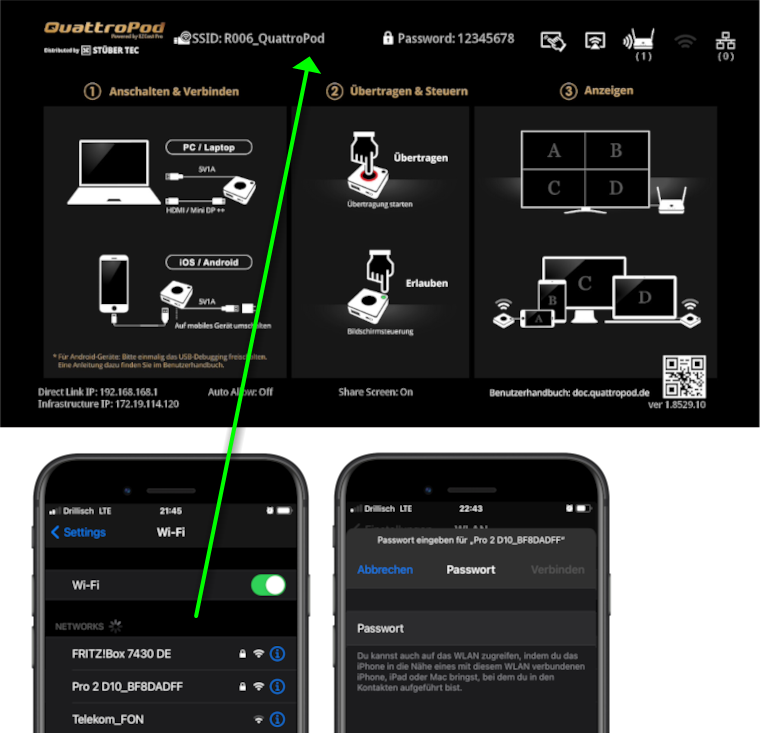
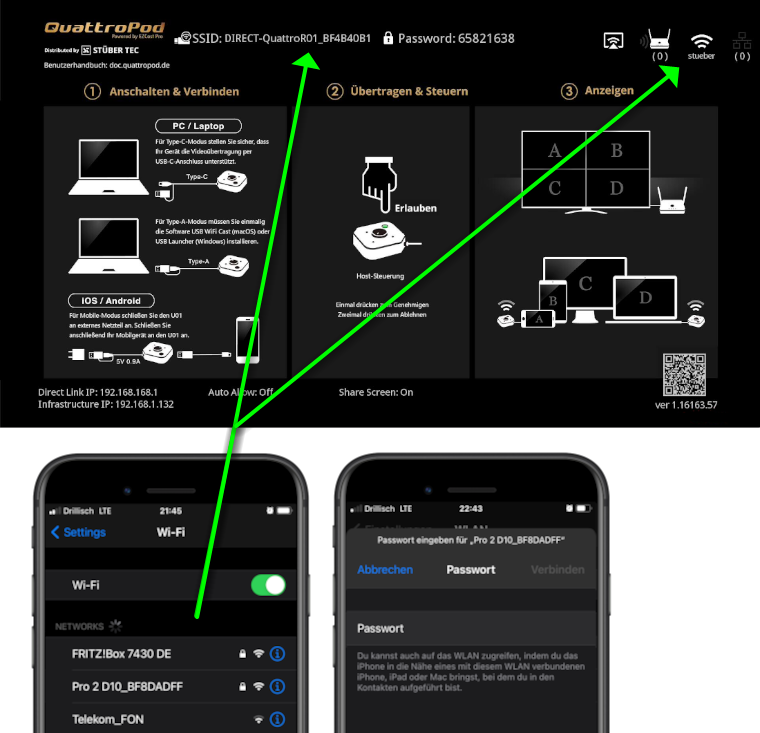
Improve QP settings guide

diff --git a/docs/lite/dynamicwallpaper.md b/docs/lite/dynamicwallpaper.md
@@ -104,11 +104,11 @@ Unsere Beispieldatei `wallpaper_file.json` zum steht Ihnen [hier](https://downlo
 
 ### Erweiterte Einstellungen öffnen
 
-* Verbinden Sie Ihr Endgerät mit der SSID des QuattroPods. Die Zugangsdaten werden oben auf dem Bildschirm angezeigt:
+* Verbinden Sie Ihr Endgerät mit dem QuattroPod, entweder mit der SSID des QuattroPods oder mit derselben WLAN- bzw. LAN-Infrastruktur, mit welcher der QuattroPod verbunden ist:
 
 ![](/assets/img/quattropod.lite.ssid.connect.png)
 
-* In die Adressleiste eines Webbrowsers geben Sie die `Direct Link IP` des QuattroPods ein. Die Einstellungsoberfläche des QuattroPods erscheint:
+* In die Adressleiste eines Webbrowsers geben Sie die IP-Adresse des QuattroPods ein. Wenn Sie mit der SSID des QuattroPods verbunden sind, geben Sie die `Direct Link IP` ein. Wenn Sie mit Ihrer WLAN- bzw. LAN-Infrastruktur verbunden sind, geben Sie die `Infrastructure IP` ein. Die Einstellungsoberfläche des QuattroPods erscheint:
 
 ![](/assets/img/quattropod_lite_directIP.connect.png)
 

diff --git a/docs/lite/internet.md b/docs/lite/internet.md
@@ -16,11 +16,11 @@ Für den QuattroPod wird eine Internet-Verbindung in folgenden Fällen benötigt
 
 ### Erweiterte Einstellungen öffnen
 
-* Verbinden Sie Ihr Endgerät mit der SSID des QuattroPods. Die Zugangsdaten werden oben auf dem Bildschirm angezeigt:
+* Verbinden Sie Ihr Endgerät mit dem QuattroPod, entweder mit der SSID des QuattroPods oder mit derselben WLAN- bzw. LAN-Infrastruktur, mit welcher der QuattroPod verbunden ist:
 
 ![](/assets/img/quattropod.lite.ssid.connect.png)
 
-* In die Adressleiste eines Webbrowsers geben Sie die `Direct Link IP` des QuattroPods ein. Die Einstellungsoberfläche des QuattroPods erscheint:
+* In die Adressleiste eines Webbrowsers geben Sie die IP-Adresse des QuattroPods ein. Wenn Sie mit der SSID des QuattroPods verbunden sind, geben Sie die `Direct Link IP` ein. Wenn Sie mit Ihrer WLAN- bzw. LAN-Infrastruktur verbunden sind, geben Sie die `Infrastructure IP` ein. Die Einstellungsoberfläche des QuattroPods erscheint:
 
 ![](/assets/img/quattropod_lite_directIP.connect.png)
 

diff --git a/docs/deluxe/dynamicwallpaper.md b/docs/deluxe/dynamicwallpaper.md
@@ -104,11 +104,11 @@ Unsere Beispieldatei `wallpaper_file.json` zum steht Ihnen [hier](https://downlo
 
 ### Erweiterte Einstellungen öffnen
 
-* Verbinden Sie Ihr Endgerät mit der SSID des QuattroPods. Die Zugangsdaten werden oben auf dem Bildschirm angezeigt:
+* Verbinden Sie Ihr Endgerät mit dem QuattroPod, entweder mit der SSID des QuattroPods oder mit derselben WLAN- bzw. LAN-Infrastruktur, mit welcher der QuattroPod verbunden ist:
 
 ![](/assets/img/quattropod.ssid.connect.png)
 
-* In die Adressleiste eines Webbrowsers geben Sie die `Direct Link IP` des QuattroPods ein. Die Einstellungsoberfläche des QuattroPods erscheint:
+* In die Adressleiste eines Webbrowsers geben Sie die IP-Adresse des QuattroPods ein. Wenn Sie mit der SSID des QuattroPods verbunden sind, geben Sie die `Direct Link IP` ein. Wenn Sie mit Ihrer WLAN- bzw. LAN-Infrastruktur verbunden sind, geben Sie die `Infrastructure IP` ein. Die Einstellungsoberfläche des QuattroPods erscheint:
 
 ![](/assets/img/quattropod_directIP.connect.png)
 

diff --git a/docs/m1/dynamicwallpaper.md b/docs/m1/dynamicwallpaper.md
@@ -104,11 +104,11 @@ Unsere Beispieldatei `wallpaper_file.json` zum steht Ihnen [hier](https://downlo
 
 ### Erweiterte Einstellungen öffnen
 
-* Verbinden Sie Ihr Endgerät mit der SSID des QuattroPods. Die Zugangsdaten werden oben auf dem Bildschirm angezeigt:
+* Verbinden Sie Ihr Endgerät mit dem QuattroPod, entweder mit der SSID des QuattroPods oder mit derselben WLAN- bzw. LAN-Infrastruktur, mit welcher der QuattroPod verbunden ist:
 
 ![](/assets/img/quattropod.ssid.connect.png)
 
-* In die Adressleiste eines Webbrowsers geben Sie die `Direct Link IP` des QuattroPods ein. Die Einstellungsoberfläche des QuattroPods erscheint:
+* In die Adressleiste eines Webbrowsers geben Sie die IP-Adresse des QuattroPods ein. Wenn Sie mit der SSID des QuattroPods verbunden sind, geben Sie die `Direct Link IP` ein. Wenn Sie mit Ihrer WLAN- bzw. LAN-Infrastruktur verbunden sind, geben Sie die `Infrastructure IP` ein. Die Einstellungsoberfläche des QuattroPods erscheint:
 
 ![](/assets/img/quattropod_directIP.connect.png)
 

diff --git a/docs/mini/dynamicwallpaper.md b/docs/mini/dynamicwallpaper.md
@@ -104,11 +104,11 @@ Unsere Beispieldatei `wallpaper_file.json` zum steht Ihnen [hier](https://downlo
 
 ### Erweiterte Einstellungen öffnen
 
-* Verbinden Sie Ihr Endgerät mit der SSID des QuattroPods. Die Zugangsdaten werden oben auf dem Bildschirm angezeigt:
+* Verbinden Sie Ihr Endgerät mit dem QuattroPod, entweder mit der SSID des QuattroPods oder mit derselben WLAN- bzw. LAN-Infrastruktur, mit welcher der QuattroPod verbunden ist:
 
 ![](/assets/img/quattropod.ssid.connect.png)
 
-* In die Adressleiste eines Webbrowsers geben Sie die `Direct Link IP` des QuattroPods ein. Die Einstellungsoberfläche des QuattroPods erscheint:
+* In die Adressleiste eines Webbrowsers geben Sie die IP-Adresse des QuattroPods ein. Wenn Sie mit der SSID des QuattroPods verbunden sind, geben Sie die `Direct Link IP` ein. Wenn Sie mit Ihrer WLAN- bzw. LAN-Infrastruktur verbunden sind, geben Sie die `Infrastructure IP` ein. Die Einstellungsoberfläche des QuattroPods erscheint:
 
 ![](/assets/img/quattropod_directIP.connect.png)
 

diff --git a/docs/standard/dynamicwallpaper.md b/docs/standard/dynamicwallpaper.md
@@ -104,11 +104,11 @@ Unsere Beispieldatei `wallpaper_file.json` zum steht Ihnen [hier](https://downlo
 
 ### Erweiterte Einstellungen öffnen
 
-* Verbinden Sie Ihr Endgerät mit der SSID des QuattroPods. Die Zugangsdaten werden oben auf dem Bildschirm angezeigt:
+* Verbinden Sie Ihr Endgerät mit dem QuattroPod, entweder mit der SSID des QuattroPods oder mit derselben WLAN- bzw. LAN-Infrastruktur, mit welcher der QuattroPod verbunden ist:
 
 ![](/assets/img/quattropod.ssid.connect.png)
 
-* In die Adressleiste eines Webbrowsers geben Sie die `Direct Link IP` des QuattroPods ein. Die Einstellungsoberfläche des QuattroPods erscheint:
+* In die Adressleiste eines Webbrowsers geben Sie die IP-Adresse des QuattroPods ein. Wenn Sie mit der SSID des QuattroPods verbunden sind, geben Sie die `Direct Link IP` ein. Wenn Sie mit Ihrer WLAN- bzw. LAN-Infrastruktur verbunden sind, geben Sie die `Infrastructure IP` ein. Die Einstellungsoberfläche des QuattroPods erscheint:
 
 ![](/assets/img/quattropod_directIP.connect.png)
 

diff --git a/docs/usb/dynamicwallpaper.md b/docs/usb/dynamicwallpaper.md
@@ -104,11 +104,11 @@ Unsere Beispieldatei `wallpaper_file.json` zum steht Ihnen [hier](https://downlo
 
 ### Erweiterte Einstellungen öffnen
 
-* Verbinden Sie Ihr Endgerät mit der SSID des QuattroPods. Die Zugangsdaten werden oben auf dem Bildschirm angezeigt:
+* Verbinden Sie Ihr Endgerät mit dem QuattroPod, entweder mit der SSID des QuattroPods oder mit derselben WLAN- bzw. LAN-Infrastruktur, mit welcher der QuattroPod verbunden ist:
 
 ![](/assets/img/quattropod.ssid.connect.png)
 
-* In die Adressleiste eines Webbrowsers geben Sie die `Direct Link IP` des QuattroPods ein. Die Einstellungsoberfläche des QuattroPods erscheint:
+* In die Adressleiste eines Webbrowsers geben Sie die IP-Adresse des QuattroPods ein. Wenn Sie mit der SSID des QuattroPods verbunden sind, geben Sie die `Direct Link IP` ein. Wenn Sie mit Ihrer WLAN- bzw. LAN-Infrastruktur verbunden sind, geben Sie die `Infrastructure IP` ein. Die Einstellungsoberfläche des QuattroPods erscheint:
 
 ![](/assets/img/quattropod_directIP.connect.png)
 

diff --git a/docs/deluxe/internet.md b/docs/deluxe/internet.md
@@ -30,11 +30,11 @@ Wenn der QuattroPod mit Ihrem WLAN verbunden ist, wird eine von Ihrem Netzwerk v
 
 ### Erweiterte Einstellungen öffnen
 
-* Verbinden Sie Ihr Endgerät mit der SSID des QuattroPods. Die Zugangsdaten werden oben auf dem Bildschirm angezeigt:
+* Verbinden Sie Ihr Endgerät mit dem QuattroPod, entweder mit der SSID des QuattroPods oder mit derselben WLAN- bzw. LAN-Infrastruktur, mit welcher der QuattroPod verbunden ist:
 
 ![](/assets/img/quattropod.ssid.connect.png)
 
-* In die Adressleiste eines Webbrowsers geben Sie die `Direct Link IP` des QuattroPods ein. Die Einstellungsoberfläche des QuattroPods erscheint:
+* In die Adressleiste eines Webbrowsers geben Sie die IP-Adresse des QuattroPods ein. Wenn Sie mit der SSID des QuattroPods verbunden sind, geben Sie die `Direct Link IP` ein. Wenn Sie mit Ihrer WLAN- bzw. LAN-Infrastruktur verbunden sind, geben Sie die `Infrastructure IP` ein. Die Einstellungsoberfläche des QuattroPods erscheint:
 
 ![](/assets/img/quattropod_directIP.connect.png)
 

diff --git a/docs/deluxe/securitycodes.md b/docs/deluxe/securitycodes.md
@@ -76,11 +76,11 @@ Wenn Sie nur Streamingprotokolle zulassen möchten, die einen Sicherheitscode un
 
 ### Erweiterte Einstellungen öffnen
 
-* Verbinden Sie Ihr Endgerät mit der SSID des QuattroPods. Die Zugangsdaten werden oben auf dem Bildschirm angezeigt:
+* Verbinden Sie Ihr Endgerät mit dem QuattroPod, entweder mit der SSID des QuattroPods oder mit derselben WLAN- bzw. LAN-Infrastruktur, mit welcher der QuattroPod verbunden ist:
 
 ![](/assets/img/quattropod.ssid.connect.png)
 
-* In die Adressleiste eines Webbrowsers geben Sie die `Direct Link IP` des QuattroPods ein. Die Einstellungsoberfläche des QuattroPods erscheint:
+* In die Adressleiste eines Webbrowsers geben Sie die IP-Adresse des QuattroPods ein. Wenn Sie mit der SSID des QuattroPods verbunden sind, geben Sie die `Direct Link IP` ein. Wenn Sie mit Ihrer WLAN- bzw. LAN-Infrastruktur verbunden sind, geben Sie die `Infrastructure IP` ein. Die Einstellungsoberfläche des QuattroPods erscheint:
 
 ![](/assets/img/quattropod_directIP.connect.png)
 

diff --git a/docs/lite/securitycodes.md b/docs/lite/securitycodes.md
@@ -76,11 +76,11 @@ Wenn Sie nur Streamingprotokolle zulassen möchten, die einen Sicherheitscode un
 
 ### Erweiterte Einstellungen öffnen
 
-* Verbinden Sie Ihr Endgerät mit der SSID des QuattroPods. Die Zugangsdaten werden oben auf dem Bildschirm angezeigt:
+* Verbinden Sie Ihr Endgerät mit dem QuattroPod, entweder mit der SSID des QuattroPods oder mit derselben WLAN- bzw. LAN-Infrastruktur, mit welcher der QuattroPod verbunden ist:
 
 ![](/assets/img/quattropod.ssid.connect.png)
 
-* In die Adressleiste eines Webbrowsers geben Sie die `Direct Link IP` des QuattroPods ein. Die Einstellungsoberfläche des QuattroPods erscheint:
+* In die Adressleiste eines Webbrowsers geben Sie die IP-Adresse des QuattroPods ein. Wenn Sie mit der SSID des QuattroPods verbunden sind, geben Sie die `Direct Link IP` ein. Wenn Sie mit Ihrer WLAN- bzw. LAN-Infrastruktur verbunden sind, geben Sie die `Infrastructure IP` ein. Die Einstellungsoberfläche des QuattroPods erscheint:
 
 ![](/assets/img/quattropod_directIP.connect.png)
 

diff --git a/docs/m1/internet.md b/docs/m1/internet.md
@@ -30,11 +30,11 @@ Wenn der QuattroPod mit Ihrem WLAN verbunden ist, wird eine von Ihrem Netzwerk v
 
 ### Erweiterte Einstellungen öffnen
 
-* Verbinden Sie Ihr Endgerät mit der SSID des QuattroPods. Die Zugangsdaten werden oben auf dem Bildschirm angezeigt:
+* Verbinden Sie Ihr Endgerät mit dem QuattroPod, entweder mit der SSID des QuattroPods oder mit derselben WLAN- bzw. LAN-Infrastruktur, mit welcher der QuattroPod verbunden ist:
 
 ![](/assets/img/quattropod.ssid.connect.png)
 
-* In die Adressleiste eines Webbrowsers geben Sie die `Direct Link IP` des QuattroPods ein. Die Einstellungsoberfläche des QuattroPods erscheint:
+* In die Adressleiste eines Webbrowsers geben Sie die IP-Adresse des QuattroPods ein. Wenn Sie mit der SSID des QuattroPods verbunden sind, geben Sie die `Direct Link IP` ein. Wenn Sie mit Ihrer WLAN- bzw. LAN-Infrastruktur verbunden sind, geben Sie die `Infrastructure IP` ein. Die Einstellungsoberfläche des QuattroPods erscheint:
 
 ![](/assets/img/quattropod_directIP.connect.png)
 

diff --git a/docs/m1/securitycodes.md b/docs/m1/securitycodes.md
@@ -76,11 +76,11 @@ Wenn Sie nur Streamingprotokolle zulassen möchten, die einen Sicherheitscode un
 
 ### Erweiterte Einstellungen öffnen
 
-* Verbinden Sie Ihr Endgerät mit der SSID des QuattroPods. Die Zugangsdaten werden oben auf dem Bildschirm angezeigt:
+* Verbinden Sie Ihr Endgerät mit dem QuattroPod, entweder mit der SSID des QuattroPods oder mit derselben WLAN- bzw. LAN-Infrastruktur, mit welcher der QuattroPod verbunden ist:
 
 ![](/assets/img/quattropod.ssid.connect.png)
 
-* In die Adressleiste eines Webbrowsers geben Sie die `Direct Link IP` des QuattroPods ein. Die Einstellungsoberfläche des QuattroPods erscheint:
+* In die Adressleiste eines Webbrowsers geben Sie die IP-Adresse des QuattroPods ein. Wenn Sie mit der SSID des QuattroPods verbunden sind, geben Sie die `Direct Link IP` ein. Wenn Sie mit Ihrer WLAN- bzw. LAN-Infrastruktur verbunden sind, geben Sie die `Infrastructure IP` ein. Die Einstellungsoberfläche des QuattroPods erscheint:
 
 ![](/assets/img/quattropod_directIP.connect.png)
 
